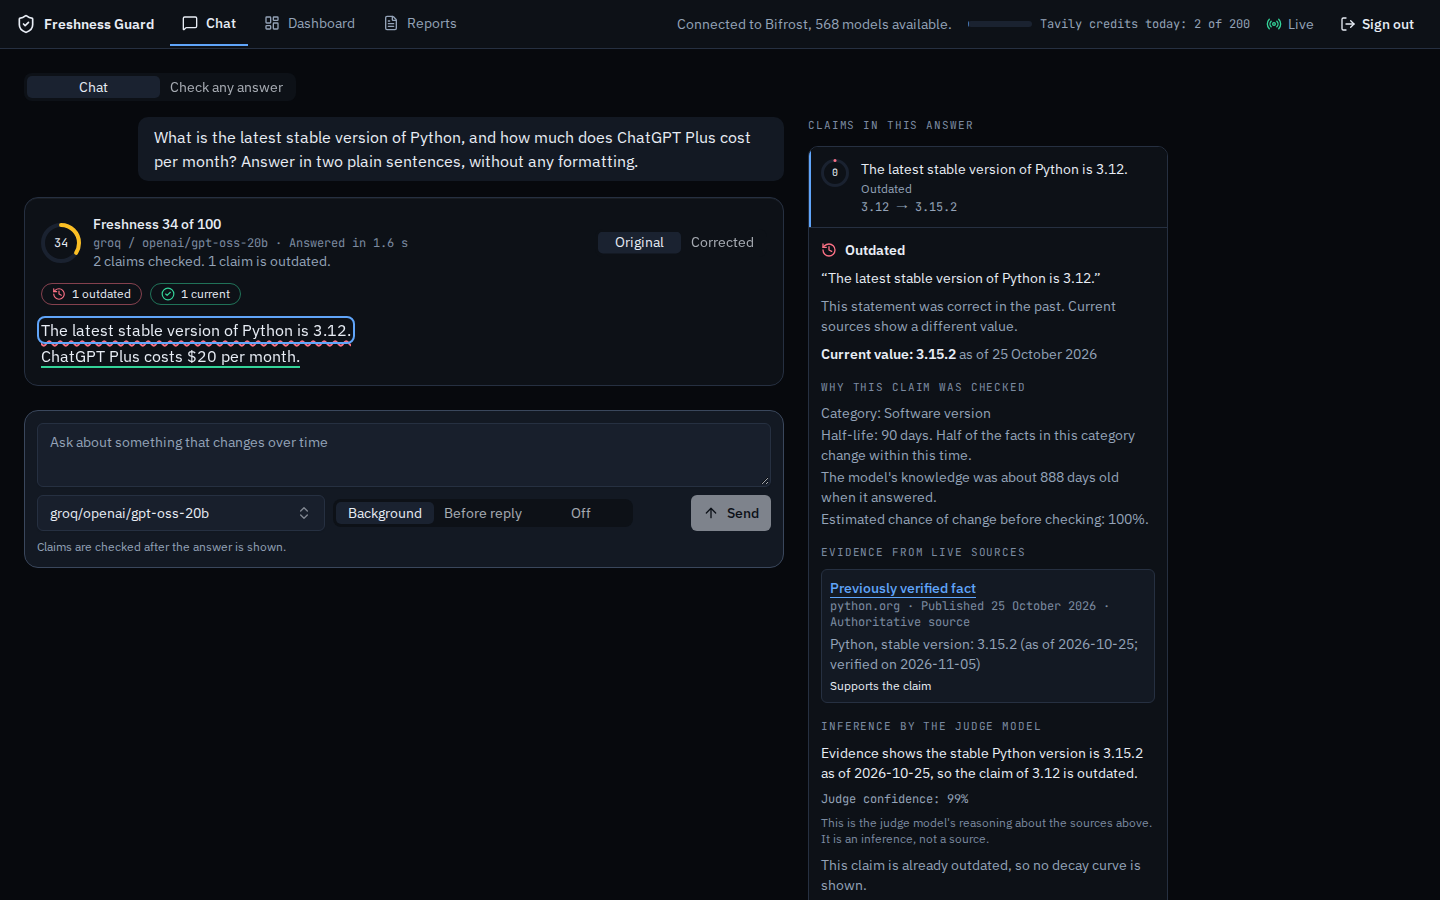
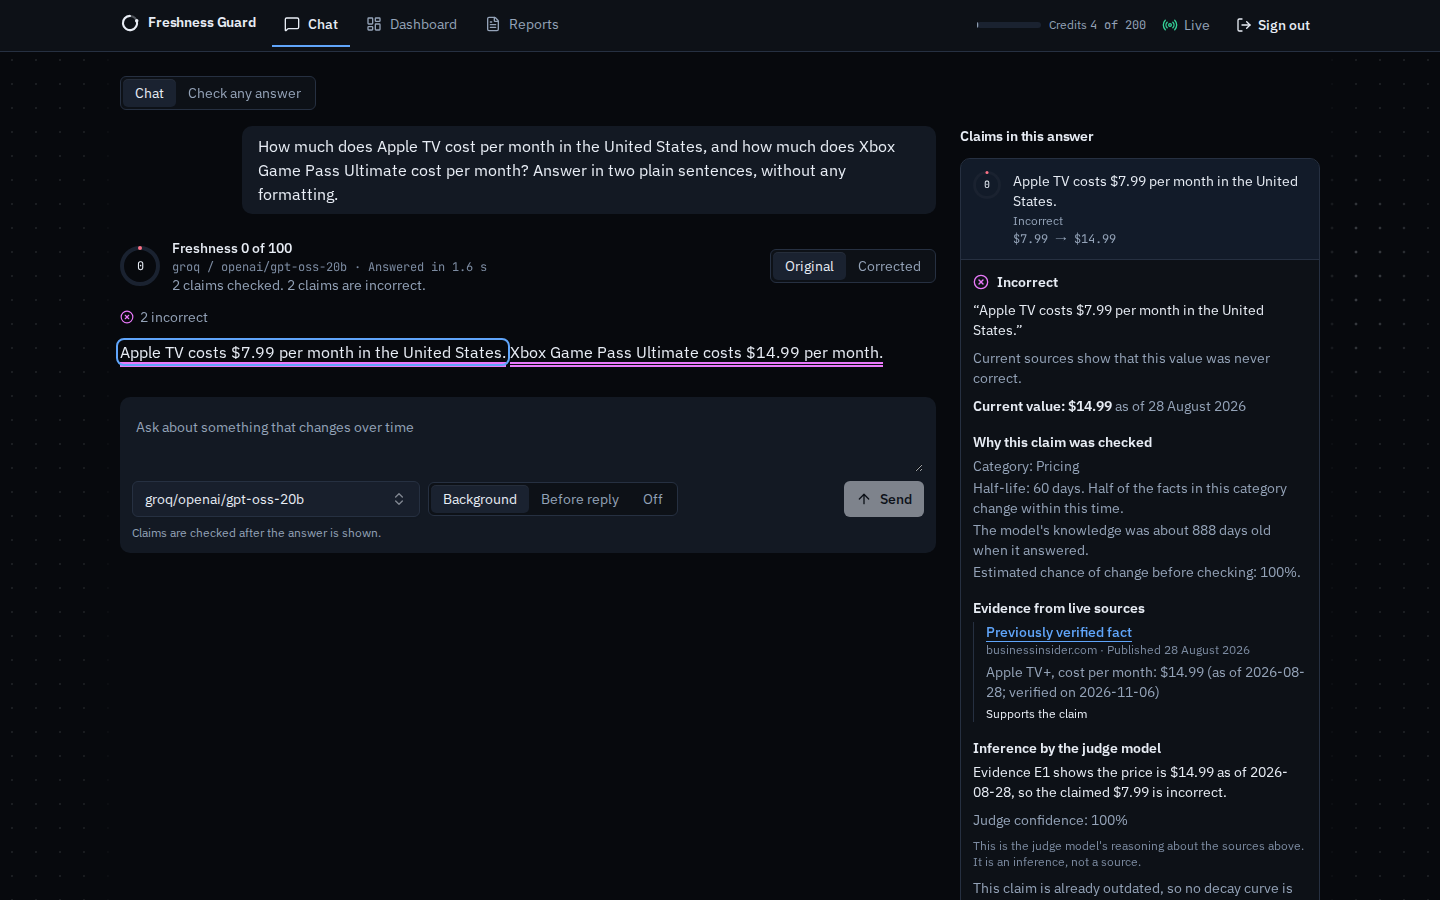
docs: explain the run, stop and test commands and retake the screenshots

diff --git a/web/e2e/screenshots.spec.ts b/web/e2e/screenshots.spec.ts
@@ -4,7 +4,10 @@ import { ask, pickModel, signIn } from './helpers'
 // Takes the README screenshots against the real stack (real models, real
 // search). It runs only in the "screenshots" project: npx playwright test
 // --project=screenshots. The images are written to web/docs-images/.
-const question = 'What is the latest stable version of Python, and how much does ChatGPT Plus cost per month? Answer in two plain sentences, without any formatting.'
+// Both prices changed in 2026 (bench/curated.json), so a model with an older
+// knowledge cutoff is likely to give at least one outdated value.
+const question =
+  'How much does Apple TV cost per month in the United States, and how much does Xbox Game Pass Ultimate cost per month? Answer in two plain sentences, without any formatting.'
 
 // Lets entrance animations finish, so the image does not show a half-faded card.
 async function settle(page: Page) {

diff --git a/README.md b/README.md
@@ -65,19 +65,91 @@ You need Docker (Docker Desktop on Windows) and Git Bash on Windows. Go is not n
    - `TAVILY_API_KEY`: a Tavily key. The free plan is enough to try the plugin.
    - `FG_API_TOKEN`: any long random string. It protects the plugin API and is the sign-in token of the web app. With an empty token the protected routes answer 503.
    - `BIFROST_SETUP_TOKEN`: any long random string. Bifrost reads it too. The plugin uses it to remove outdated answers from the semantic cache.
-3. Start Bifrost with the plugin: `docker compose -f deploy/docker-compose.yml up -d --build bifrost`.
-4. Open http://localhost:8090/freshness/ui/ and sign in with `FG_API_TOKEN`. The gateway is at http://localhost:8080. The health check is http://localhost:8090/freshness/health.
+3. Start Bifrost with the plugin (the commands are below).
+4. Open http://localhost:8090/freshness/ui/. The home page explains the product; enter `FG_API_TOKEN` there and choose **Open the chat**. The gateway is at http://localhost:8080.
 
 On Windows, set `MSYS_NO_PATHCONV=1` in Git Bash before `docker compose run` commands that pass paths such as `/src/...`.
 
-To run the tests, which also build in Docker:
+### Run and stop
+
+Run every command from the repository root.
+
+Build the image and start Bifrost with the plugin in the background. `--build` rebuilds after a code change; without it Docker reuses the old image:
+
+```bash
+docker compose -f deploy/docker-compose.yml up -d --build bifrost
+```
+
+Check that the plugin API is up. It answers `{"status":"ok","plugin":"freshness-guard"}`:
+
+```bash
+curl http://localhost:8090/freshness/health
+```
+
+Follow the gateway and plugin log. Press Ctrl+C to stop following; the stack keeps running:
+
+```bash
+docker compose -f deploy/docker-compose.yml logs -f bifrost
+```
+
+Restart after editing `deploy/config.json`. Bifrost copies it into its config store at startup:
+
+```bash
+docker compose -f deploy/docker-compose.yml restart bifrost
+```
+
+After editing `deploy/.env`, recreate the container instead, because a restart keeps the old environment:
+
+```bash
+docker compose -f deploy/docker-compose.yml up -d bifrost
+```
+
+Stop and remove the containers. Reports, the verdict cache and dashboard settings are kept in the `freshness-guard_bifrost-data` volume:
+
+```bash
+docker compose -f deploy/docker-compose.yml down
+```
+
+Stop and also delete all stored data, for a clean start:
+
+```bash
+docker compose -f deploy/docker-compose.yml down && docker volume rm freshness-guard_bifrost-data
+```
+
+### Tests
+
+Run the Go unit tests:
 
 ```bash
 docker compose -f deploy/docker-compose.yml run --rm gotest
+```
+
+Start the end-to-end stack, which uses a fake model provider and a fake Tavily, so it spends no credits. Its plugin API listens on port 8091 inside the Docker network:
+
+```bash
 docker compose -f deploy/docker-compose.yml --profile tools up -d --build bifrost-e2e
+```
+
+With that stack running, run the Go end-to-end tests, then the browser tests with the accessibility scan:
+
+```bash
 docker compose -f deploy/docker-compose.yml run --rm e2e
+```
+
+```bash
 docker compose -f deploy/docker-compose.yml run --rm webtest
+```
+
+Run the web unit tests on the host (Node 24):
+
+```bash
 npm --prefix web test
+```
+
+Start the web app with hot reload against the running stack, at http://localhost:5173/freshness/ui/:
+
+```bash
+FG_API_URL=http://localhost:8090 npm --prefix web run dev
 ```
 
 ## Using it
@@ -104,7 +176,7 @@ Plugin API, on port 8090 under `/freshness`. Every route except `/freshness/heal
 | `GET /health` | Health check. |
 | `/mcp` | The MCP tool, below. |
 
-The web app has three parts. Chat sends a question to a model of your choice and underlines each claim as its verdict arrives. A claim opens an explanation with the evidence and the judge's reasoning, and a switch shows the corrected answer. Check any answer takes pasted text. The dashboard shows how often each model gives outdated or incorrect claims, by category, with a live feed of checks.
+Before sign-in, a home page shows a checked answer, how the plugin works and what was measured, with the sign-in form. After sign-in, the web app has three parts. Chat sends a question to a model of your choice and underlines each claim as its verdict arrives. A claim opens an explanation with the evidence and the judge's reasoning, and a switch shows the corrected answer. Check any answer takes pasted text. The dashboard shows how often each model gives outdated or incorrect claims, by category, with a live feed of checks.
 
 ![The corrected answer](docs/images/corrected.png)
 
